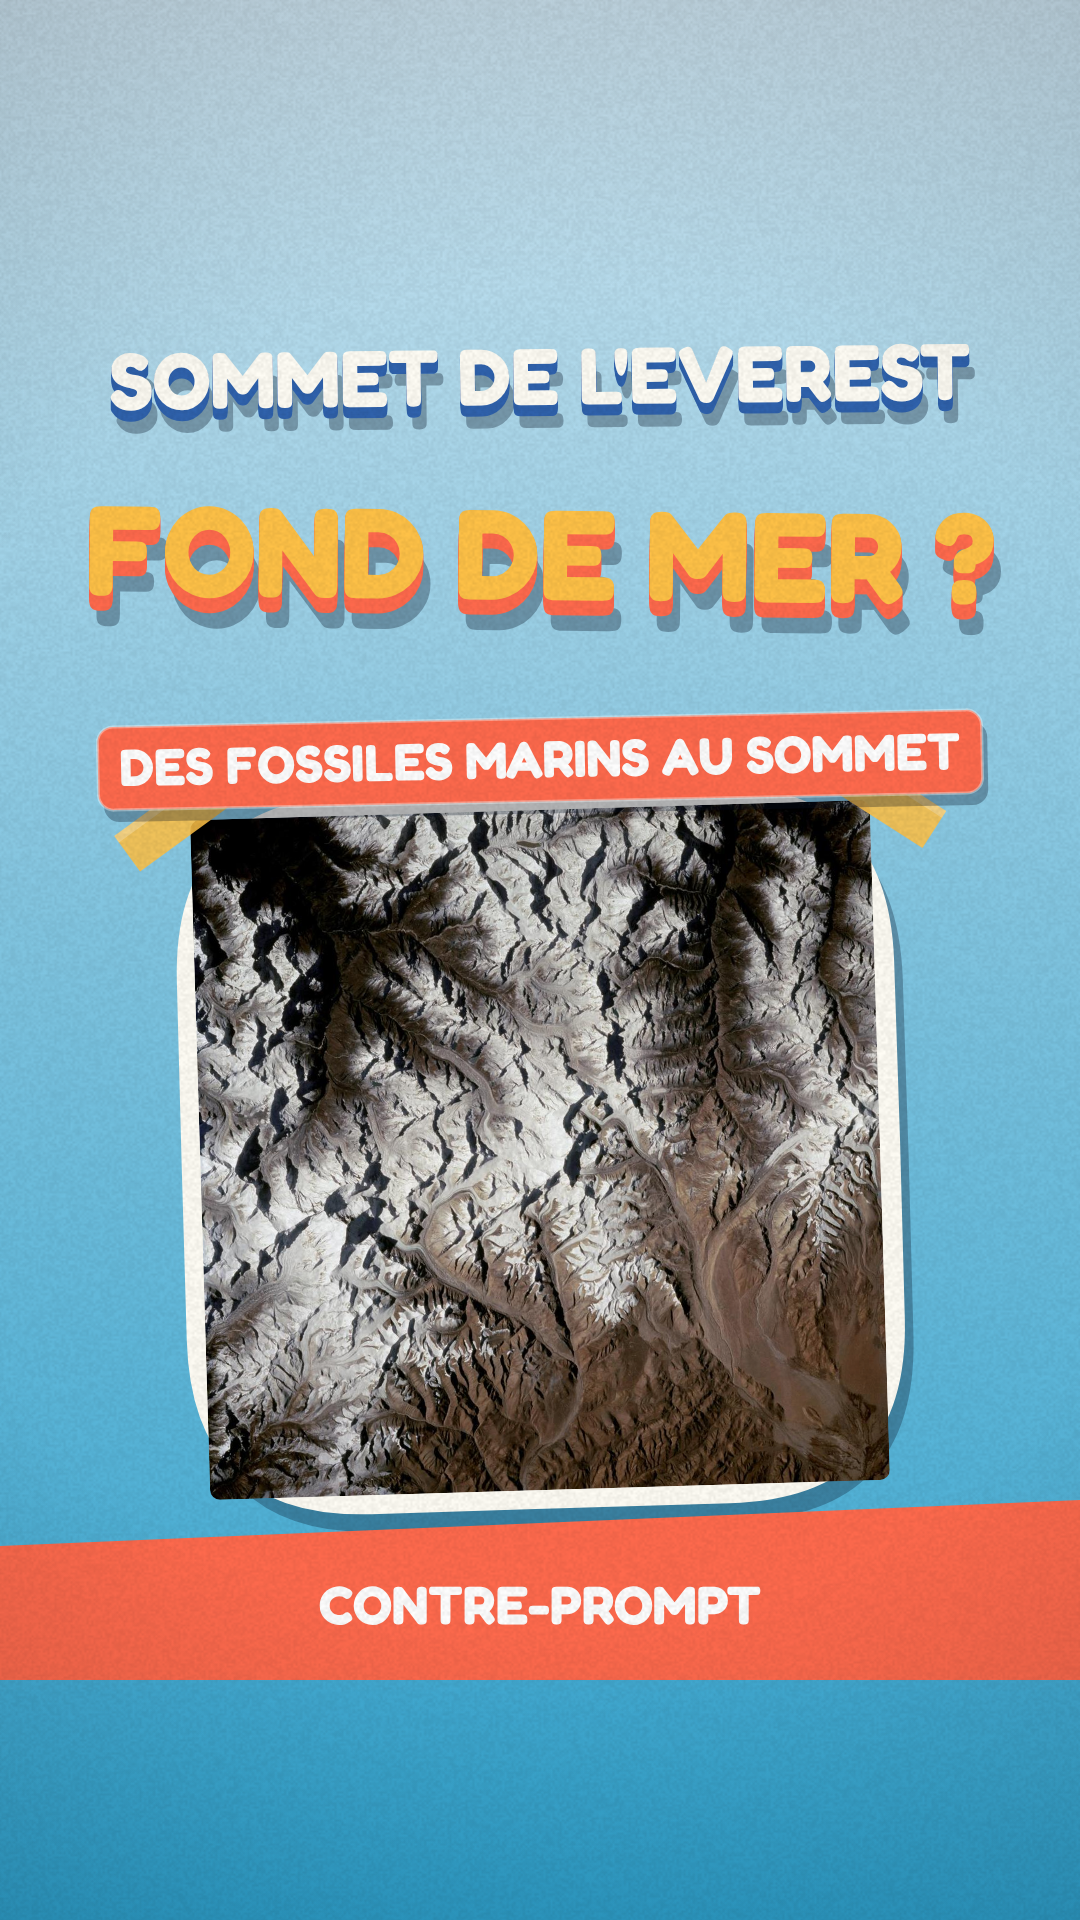
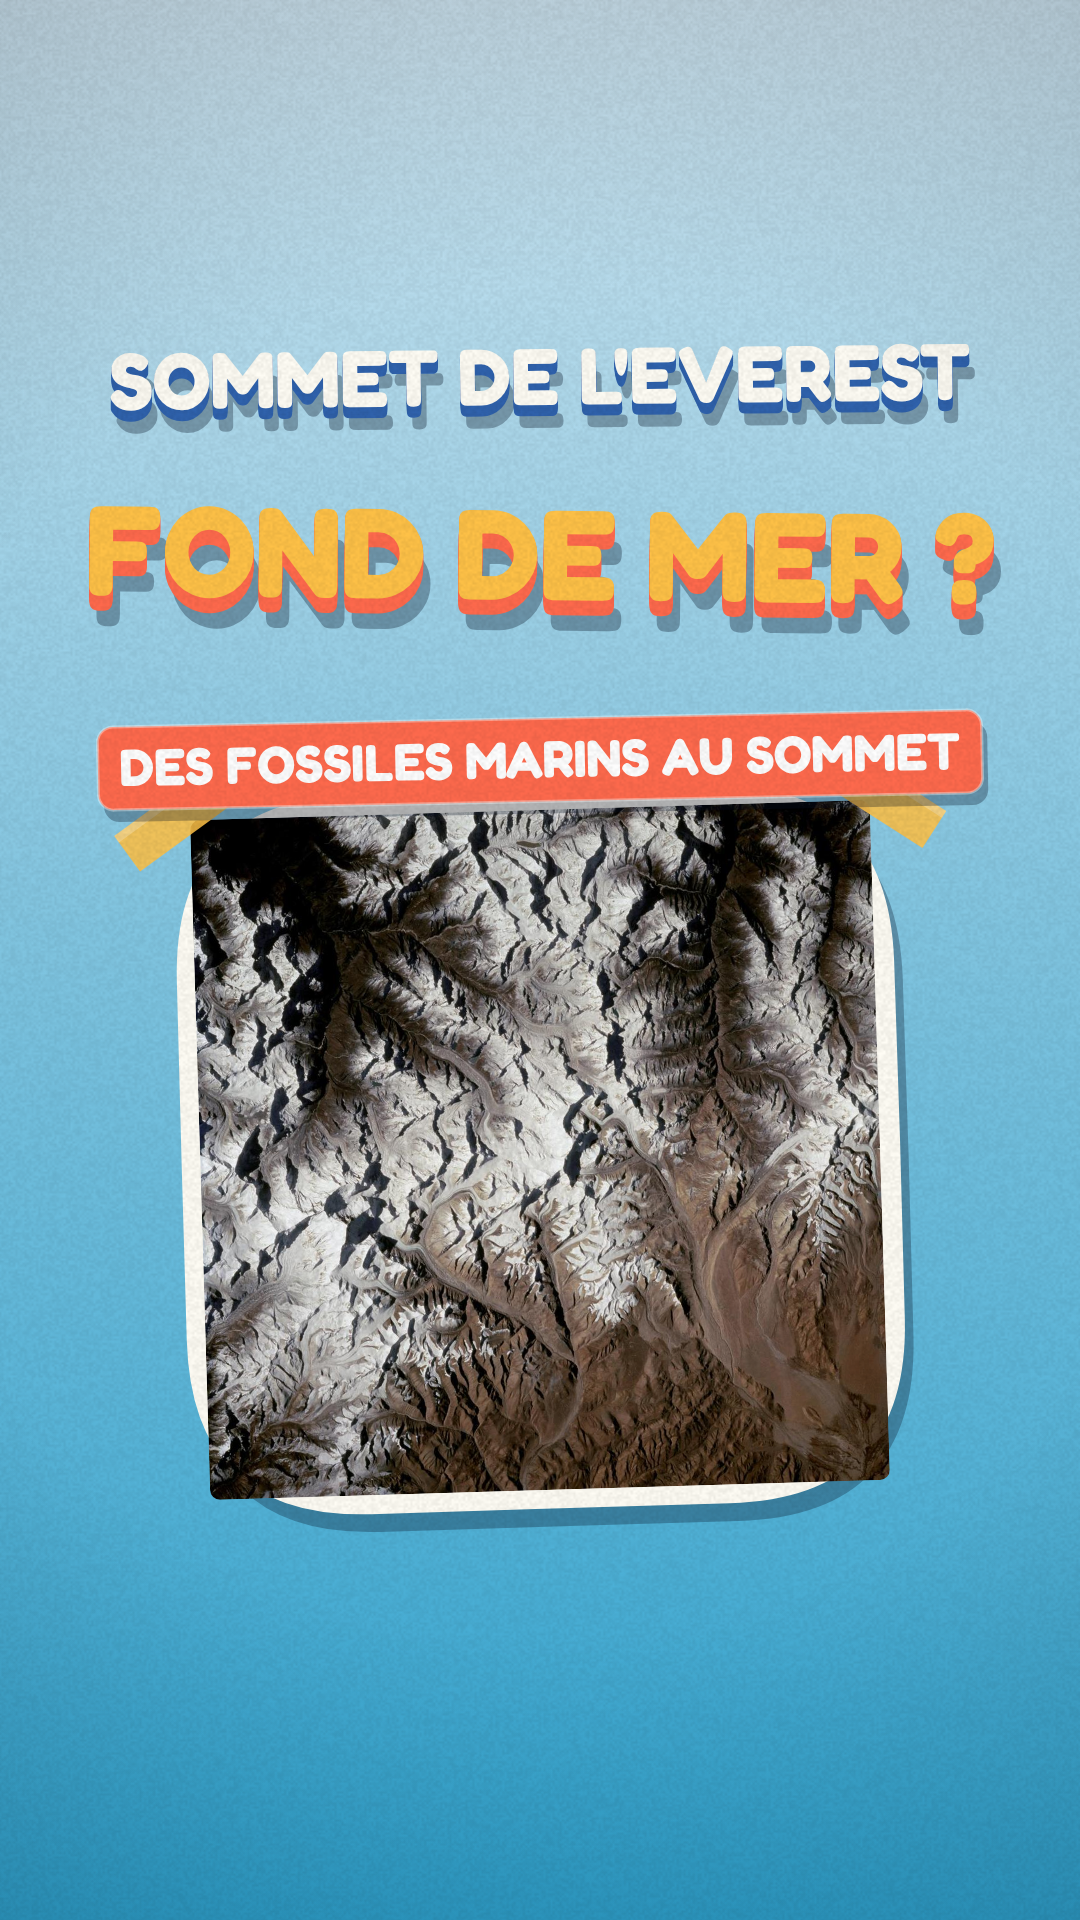
Couvertures : retire le nom de la chaîne du gabarit, nouvelle couverture Everest
Claude-Session: https://claude.ai/code/session_01K2LpZGXYMQ5BcetmRb91bN

Changed region(s): [[0.0, 0.7812, 1.0, 0.875]]

diff --git a/contre-prompt/le-sommet-de-l-everest-etait-un-fond-de-mer/source/brand.js b/contre-prompt/le-sommet-de-l-everest-etait-un-fond-de-mer/source/brand.js
@@ -54,7 +54,7 @@ function ctaSend(t, t0, x = 690, y = 650) {      // variante « Envoie-la à que
 /* ---------- couverture : même gabarit pour toutes les vidéos ----------
    coverTemplate({ kicker: 'POURQUOI', word: 'OBÉIT-ON ?', tagText: "L'EXPÉRIENCE DE MILGRAM", bg: () => {...}, illustration: () => {...} })
    Le titre reste entre y = 330 et y = 800 (dans le cadrage 3:4 de la grille) ; le mot-clé est GROS (lisible en miniature) ;
-   un liseré d'accent et le nom de la chaîne sont toujours au même endroit. */
+   aucune signature ni nom de chaîne sur la couverture. */
 function coverTemplate(o) {
   setTime(.4); K = 7; ctx.setTransform(1, 0, 0, 1, 0, 0); ctx.globalAlpha = 1; ctx.clearRect(0, 0, W, H);
   if (o.bg) o.bg(); else { ctx.fillStyle = '#cfe3ea'; ctx.fillRect(0, 0, W, H); }
@@ -62,7 +62,5 @@ function coverTemplate(o) {
   extruded(o.kicker, 540, 380, o.kickerSize || 110, BRAND.paper, o.shade || '#2f62ad', { depth: 11, rot: -.012 });
   extruded(o.word, 540, 560, o.wordSize || 190, o.wordColor || BRAND.accent2, BRAND.accent, { depth: 15, rot: .01 });
   if (o.tagText) tag(o.tagText, 540, 760, 52, { bg: BRAND.accent, fg: '#fff', rot: -.02, sh: 12 });
-  ctx.save(); ctx.fillStyle = BRAND.accent; ctx.beginPath(); ctx.moveTo(0, 1546); ctx.lineTo(W, 1500); ctx.lineTo(W, 1680); ctx.lineTo(0, 1680); ctx.closePath(); ctx.fill(); ctx.restore();
-  ctx.fillStyle = '#fff'; font(54); ctx.textAlign = 'center'; ctx.textBaseline = 'middle'; ctx.fillText(BRAND.name, 540, 1608);
   grain();
 }

diff --git a/contre-prompt/modele/source/brand.js b/contre-prompt/modele/source/brand.js
@@ -54,7 +54,7 @@ function ctaSend(t, t0, x = 690, y = 650) {      // variante « Envoie-la à que
 /* ---------- couverture : même gabarit pour toutes les vidéos ----------
    coverTemplate({ kicker: 'POURQUOI', word: 'OBÉIT-ON ?', tagText: "L'EXPÉRIENCE DE MILGRAM", bg: () => {...}, illustration: () => {...} })
    Le titre reste entre y = 330 et y = 800 (dans le cadrage 3:4 de la grille) ; le mot-clé est GROS (lisible en miniature) ;
-   un liseré d'accent et le nom de la chaîne sont toujours au même endroit. */
+   aucune signature ni nom de chaîne sur la couverture. */
 function coverTemplate(o) {
   setTime(.4); K = 7; ctx.setTransform(1, 0, 0, 1, 0, 0); ctx.globalAlpha = 1; ctx.clearRect(0, 0, W, H);
   if (o.bg) o.bg(); else { ctx.fillStyle = '#cfe3ea'; ctx.fillRect(0, 0, W, H); }
@@ -62,7 +62,5 @@ function coverTemplate(o) {
   extruded(o.kicker, 540, 380, o.kickerSize || 110, BRAND.paper, o.shade || '#2f62ad', { depth: 11, rot: -.012 });
   extruded(o.word, 540, 560, o.wordSize || 190, o.wordColor || BRAND.accent2, BRAND.accent, { depth: 15, rot: .01 });
   if (o.tagText) tag(o.tagText, 540, 760, 52, { bg: BRAND.accent, fg: '#fff', rot: -.02, sh: 12 });
-  ctx.save(); ctx.fillStyle = BRAND.accent; ctx.beginPath(); ctx.moveTo(0, 1546); ctx.lineTo(W, 1500); ctx.lineTo(W, 1680); ctx.lineTo(0, 1680); ctx.closePath(); ctx.fill(); ctx.restore();
-  ctx.fillStyle = '#fff'; font(54); ctx.textAlign = 'center'; ctx.textBaseline = 'middle'; ctx.fillText(BRAND.name, 540, 1608);
   grain();
 }
